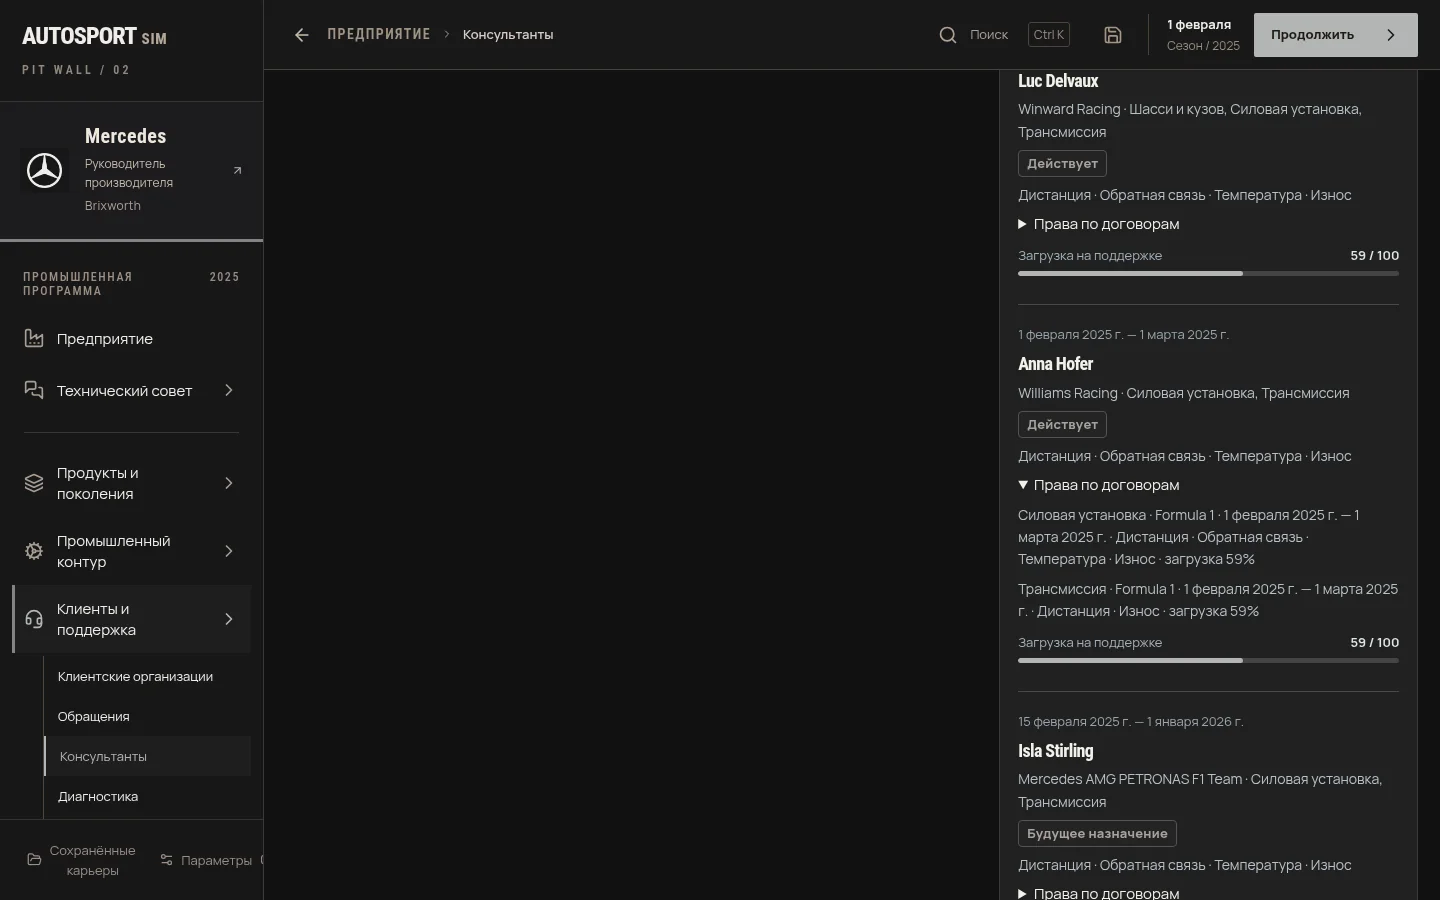
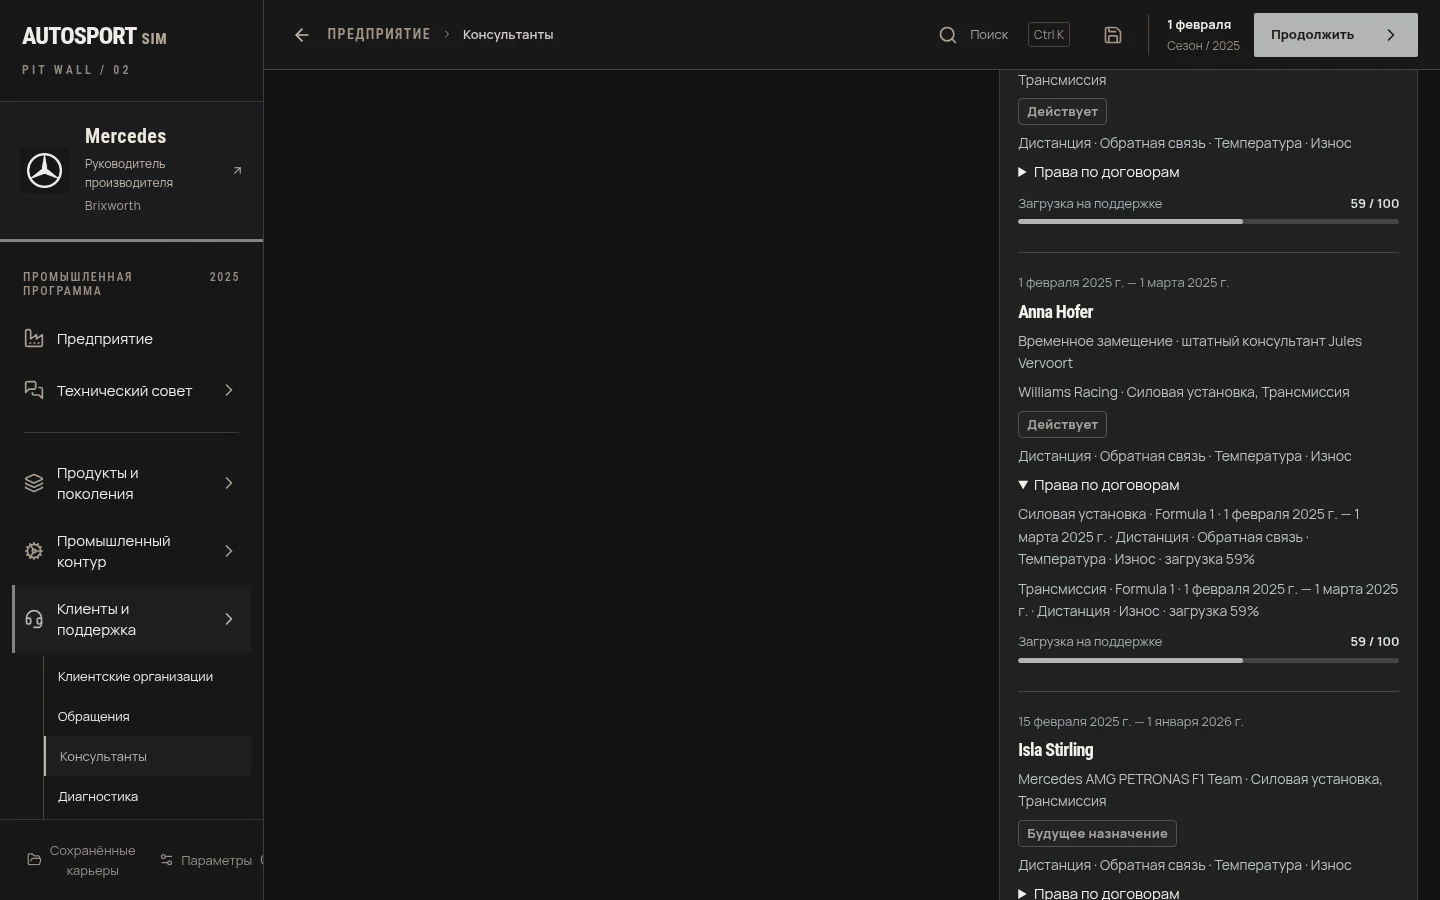
Проверить границы доступа при смене производителя и показать временные назначения

diff --git a/frontend/src/pitwall/Directory.jsx b/frontend/src/pitwall/Directory.jsx
@@ -4012,7 +4012,7 @@ function EngineerCover({data}) {
         if (problem) return setError(problem)
         p.commit('engineer-cover', {...v, seat: current.seat}, setError)
       }}>
-        <Field label="Заявка"><select name="entry">{entries.map((e) => <option key={e.id} value={e.id}>{p.seriesName(e.championship)} · № {e.number}</option>)}</select></Field>
+        <Field label="Заявка"><select aria-label="Заявка" name="entry">{entries.map((e) => <option key={e.id} value={e.id}>{p.seriesName(e.championship)} · № {e.number}</option>)}</select></Field>
         <div className="p-form-grid">
           <Field label="Начало замещения"><input type="date" name="start" min={c.date} defaultValue={c.date} required /></Field>
           <Field label="Окончание (исключая)"><input type="date" name="end" defaultValue={addDays(c.date,7)} required /></Field>

diff --git a/backend/test_engineering_intervals.py b/backend/test_engineering_intervals.py
@@ -17,9 +17,9 @@ from .test_personal_engineering import MERCEDES, WILLIAMS, engineering_career
 make_career = pytest.fixture(name="career")(engineering_career)
 
 
-def sign(state, world, key, client, start, end, axis="engine"):
+def sign(state, world, key, client, start, end, axis="engine", maker=MERCEDES):
     bid = market.Bid(
-        terms=terms(org=client, sponsor=MERCEDES, start=start, end=end),
+        terms=terms(org=client, sponsor=maker, start=start, end=end),
         supply=dict(
             product=axis,
             price_cents=10000,
@@ -243,7 +243,12 @@ def test_product_grants_replacement_expiry_and_new_supplier(career):
     s["date"] = "2025-02-04"
     assert not access(MERCEDES, during)
     assert not access(MERCEDES, engine)
+    s["date"] = "2025-02-05"
     market.end_supply(s, MERCEDES, deals["engine"]["id"])
+    assert (
+        staff.grant(s, w, e, "engine", "2025-02-04", deals["engine"])["end"]
+        == s["date"]
+    )
     assert not staff.grant(s, w, e, "engine", s["date"], deals["engine"])
     sign(s, w, "renew-data", WILLIAMS, s["date"], "2025-03-01")
     assert not access(MERCEDES, during)
@@ -259,23 +264,27 @@ def test_product_grants_replacement_expiry_and_new_supplier(career):
         ),
     )
     competitor = "supplier-ferrari"
-    new = dict(
-        s["market"]["supplies"]["renew-data"],
-        id="competitor",
-        sponsor=competitor,
-        start=s["date"],
-        end="2025-04-01",
+    outgoing = next(
+        r["client"]
+        for r in staff.appointments(s, w, competitor)
+        if r["start"] <= s["date"] < r["end"] and r.get("seat")
     )
-    s["market"]["supplies"][new["id"]] = new
+    for d in list(s["market"]["supplies"].values()):
+        if (d["sponsor"], d["org"], d["status"]) == (competitor, outgoing, "signed"):
+            market.end_supply(s, competitor, d["id"])
     s["market"]["homologations"]["march"] = dict(
         entry=e["id"],
         provider=competitor,
         product="engine",
         start=s["date"],
-        end=new["end"],
+        end="2025-04-01",
         works=False,
     )
-    assert agreement(s, w, e, "engine")["maker"] == competitor
+    sign(s, w, "competitor", WILLIAMS, s["date"], "2025-04-01", maker=competitor)
+    fresh = agreement(s, w, e, "engine")
+    assert fresh["maker"] == competitor
+    new_channel = header("engine", "temperature", s["date"], fresh)
+    assert access(competitor, new_channel) and not access(MERCEDES, new_channel)
     assert not access(MERCEDES, engine) and not access(competitor, engine)
 
 

diff --git a/backend/personal_engineering.py b/backend/personal_engineering.py
@@ -412,6 +412,17 @@ def grant(state, world, entry, axis, day, terms, rows=None):
         return None
     terms = actual
     maker, client = terms["maker"], entry["org"]
+    deal = state["market"]["supplies"].get(terms["id"])
+    if not deal and not state.get("opening"):
+        deal = next(
+            (
+                d
+                for d in service_deals(state, world, maker, client)
+                if d["id"] == terms["id"]
+            ),
+            None,
+        )
+    end = (deal.get("ended") or deal["end"]) if deal else terms.get("end")
     for r in rows if rows is not None else appointments(state, world, maker, client):
         if (r["employer"], r["client"]) != (maker, client) or not r["start"] <= day < r[
             "end"
@@ -429,14 +440,14 @@ def grant(state, world, entry, axis, day, terms, rows=None):
                 channels=sorted(channels),
                 allocation_percent=load,
                 start=max(r["start"], terms.get("start") or r["start"]),
-                end=min(r["end"], terms.get("end") or r["end"]),
+                end=min(r["end"], end or r["end"]),
             )
         if (
             r["agreement"] == terms["id"]
             and r["product"] == axis
             and r.get("entry", entry["id"]) == entry["id"]
         ):
-            return r
+            return dict(r, end=min(r["end"], end or r["end"]))
     return None
 
 

diff --git a/docs/issue-64/README.md b/docs/issue-64/README.md
@@ -25,6 +25,16 @@
 | Права на данные по поставкам | [Открыть](desktop-rights.webp) | [Открыть](mobile-rights.webp) |
 | Досье и назначения | [Открыть](desktop-contract.webp) | [Открыть](mobile-contract.webp) |
 | Замещение у клиентской команды | [Открыть](desktop-appointment.webp) | [Открыть](mobile-appointment.webp) |
+| Штатный и замещающий инженеры AIX Racing | [Открыть](desktop-crew-cover.webp) | [Открыть](mobile-crew-cover.webp) |
 | Обязательный брифинг | [Открыть](desktop-briefing.webp) | [Открыть](mobile-briefing.webp) |
 
 Сценарии уникальности, найма, эксклюзивного замещения, изменения портфеля, отзыва допуска, NPC и миграции находятся в [функциональных тестах](../../backend/test_personal_engineering.py). Браузерные проверки проходят через [кабинет производителя](../../frontend/tests/manufacturer.spec.ts) и [календарь карьеры](../../frontend/tests/career.spec.ts).
+
+
+## Проверка замечаний независимого ревью
+
+На коммите `6c573dc` в изолированной копии репозитория воспроизведены отказы при покрытии продления последовательными трудовыми договорами, потеря будущего обязательства после досрочного расторжения и отказ в замещении консультанта, назначенного при подписании поставки. Штатный инженер получал дисциплинарную практику во время замещения. В закрытом заключении после расторжения менялся автор. Вызов с устаревшими условиями мог вернуть доступ к уже прекращённому договору. Проверка отказа при нехватке одного дня кадрового покрытия прошла и на исходном коммите.
+
+В исправленной версии весь период поставки проверяется до регистрации платежей. Даты работы берутся из оплаченных договоров и подтверждённой занятости. У прав по каждому изделию свой срок, заканчивающийся в том числе при досрочном расторжении. Организация сохраняет подписанное заключение и ссылки на рассмотренные протоколы. Повторное чтение самих измерений проходит текущую проверку прав. [Регрессионные сценарии](../../backend/test_engineering_intervals.py)
+
+Сохранение создано на `bad482d` после двух команд, 13 февраля 2025 года. Проверены обновление SQLite со схемы 26 на 27 и импорт переносимого архива. Исходные назначения, кадровые предложения, журнал работы, отношения, проводки, состояние генератора и журнал команд сохранились. После двух следующих команд повторный импорт с другим `PYTHONHASHSEED` вернул идентичный экспорт.
